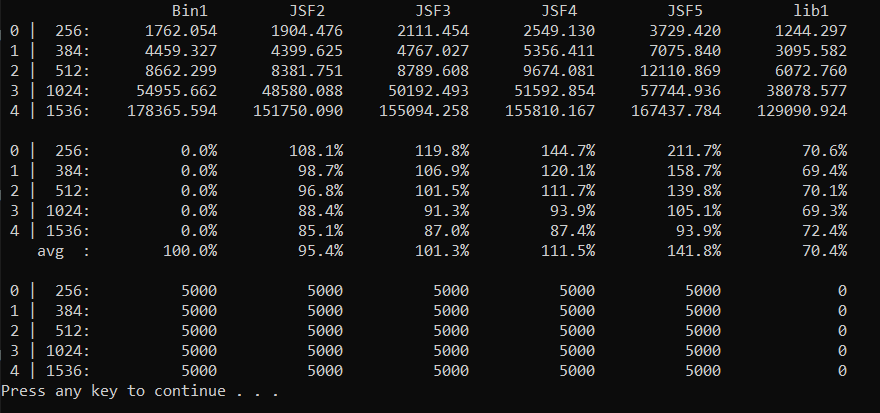
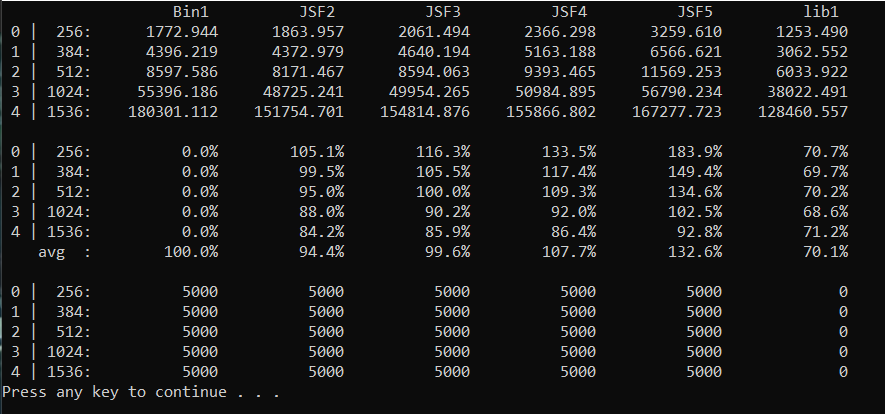
edit powmod_dJSF

diff --git a/BinModSexp/main.cpp b/BinModSexp/main.cpp
@@ -25,35 +25,35 @@ int main()
 	cinstr(P, sP);
 
 	Result res[6];
-	for (int i = 0; i < 100; i++) gl_bigs[i] = mirvar(0);
+	for (int i = 0; i < LEN_GL_BIGS; i++) gl_bigs[i] = mirvar(0);
 
-	//for (int i = 0; i < 5; i++) {
-	//	bigdig(m[i], 2, P);
-	//	nxprime(P, P);
-	//	//cout << "m = " << m[i] << endl;
-	//	//test2Bin(P, Rng);
-	//	//test3Bin_2(P, Rng);
-	//	//testnBin(P, Rng);
-	//	//test_powmoddJSF(P, Rng);
-	//	//compares(m[i], P, Rng, res[i]);
-	//	compare_JSFs(P, Rng, res[i]);
-	//	//compare_GenJSFs(P, Rng);
-	//	//test_HammingWeight_dJSF(P, Rng);
-	//	//cout << endl;
-	//}
-	////cout << setw(19) << "" << "n=1           n=2           n=3           n=4           n=5        lib(n=4)\n";
-	////cout << setw(19) << "" <<   "Bin1          Bin2      Bin2_gblvar         xxx           xxx          lib1\n";
-	////printcompares(res, m);
+	for (int i = 0; i < 5; i++) {
+		bigdig(m[i], 2, P);
+		nxprime(P, P);
+		//cout << "m = " << m[i] << endl;
+		//test2Bin(P, Rng);
+		//test3Bin_2(P, Rng);
+		//testnBin(P, Rng);
+		//test_powmoddJSF(P, Rng);
+		compares(m[i], P, Rng, res[i]);
+		//compare_JSFs(P, Rng, res[i]);
+		//compare_GenJSFs(P, Rng);
+		//test_HammingWeight_dJSF(P, Rng);
+		//cout << endl;
+	}
+	//cout << setw(19) << "" << "n=1           n=2           n=3           n=4           n=5        lib(n=4)\n";
+	cout << setw(19) << "" <<   "Bin1          JSF2          JSF3          JSF4          JSF5          lib1\n";
+	printcompares(res, m);
 	//cout << setw(19) << "" <<   "Bin2           JSF         JSFgl          lib3\n";
 	//printBins(res, m);
 
 	//test_GenJSF(P, Rng);
-	test_correctness_GendJSF(P, Rng);
+	//test_correctness_GendJSF(P, Rng);
 	//bigdig(1024, 2, P);
 	//nxprime(P, P);
 	//test_powmoddJSF(P, Rng);
 
-	for (int i = 0; i < 100; i++) mirkill(gl_bigs[i]);
+	for (int i = 0; i < LEN_GL_BIGS; i++) mirkill(gl_bigs[i]);
 
 	mirkill(P);
 	mirexit();

diff --git a/BinModSexp/new_tests.cpp b/BinModSexp/new_tests.cpp
@@ -45,9 +45,9 @@ void compares(int len, big P, csprng &Rng, Result &res)
 
 			// JSF3
 			startTimer(&timer3);
-			//ShamirDecomposit3(k, g, r, y, P);
+			ShamirDecomposit3(k, g, r, y, P);
 			//powmod3_Bin(r, y, P, R3);			// R3 = y1^r1 * y2^r2 * y3^r3
-			//powmod_dJSF(3, y, r, P, R3);
+			powmod_dJSF(3, y, r, P, R3);
 			//powmodn(3, y, r, P, R3);
 			stopTimer(&timer3);
 			dur3 = getTickCount(&timer3);
@@ -55,9 +55,9 @@ void compares(int len, big P, csprng &Rng, Result &res)
 
 			// JSF4
 			startTimer(&timer4);
-			//ShamirDecomposit_n(4, k, g, r, y, P);
+			ShamirDecomposit_n(4, k, g, r, y, P);
 			//powmodn_Bin(4, r, y, P, R4);		// R4 = y1^r1 * ...* y4^r4
-			//powmod_dJSF(4, y, r, P, R4);
+			powmod_dJSF(4, y, r, P, R4);
 			//powmodn(4, y, r, P, R4);
 			stopTimer(&timer4);
 			dur4 = getTickCount(&timer4);
@@ -65,9 +65,9 @@ void compares(int len, big P, csprng &Rng, Result &res)
 
 			// JSF5
 			startTimer(&timer5);
-			//ShamirDecomposit_n(5, k, g, r, y, P);
+			ShamirDecomposit_n(5, k, g, r, y, P);
 			//powmodn_Bin(5, r, y, P, R5);
-			//powmod_dJSF(5, y, r, P, R5);
+			powmod_dJSF(5, y, r, P, R5);
 			//powmodn(5, y, r, P, R5);
 			stopTimer(&timer5);
 			dur5 = getTickCount(&timer5);

diff --git a/BinModSexp/d-JSF.cpp b/BinModSexp/d-JSF.cpp
@@ -86,12 +86,11 @@ void powmod_dJSF(int d, big *y, big *r, big P, big &R)
 	for (i = 0; i < d; i++) dJSF[i] = new char[1000];
 	DWORD lendJSF;
 	for (i = 0; i < d; i++) tmp *= 3;
-	big *plist = new big[tmp];
-	for (i = 0; i < tmp; i++) plist[i] = mirvar(0);
 	
 	I0 = tmp >> 1;
-	prePowMod_dJSF(d, tmp, y, P, plist);
+	// gl_bigs is used inside GendJSF, hence calling GendJSF before prePowMod_dJSF
 	lendJSF = GendJSF(d, r, dJSF);
+	prePowMod_dJSF(d, tmp, y, P, gl_bigs);
 	R->len = 1; R->w[0] = 1;
 	for (i = lendJSF - 1; i >= 0; i--) {
 		idx = I0;
@@ -99,12 +98,11 @@ void powmod_dJSF(int d, big *y, big *r, big P, big &R)
 			idx -= tmp * dJSF[j][i];
 		}
 		mulmod(R, R, P, R);
-		if (idx != I0) mulmod(R, plist[idx], P, R);
+		if (idx != I0) mulmod(R, gl_bigs[idx], P, R);
 	}
 	
 	for (i = 0; i < d; i++) delete[] dJSF[i];
 	delete[] dJSF;
-	for (i = 0; i < tmp; i++) mirkill(plist[i]);
 }
 
 void test_correctness_GendJSF(big P, csprng &Rng)
@@ -271,4 +269,5 @@ void test_powmoddJSF(big P, csprng &Rng)
 	mirkill(k);mirkill(g);
 	mirkill(Z); mirkill(Z1); mirkill(Z2);
 }
+
 

diff --git a/BinModSexp/Field.h b/BinModSexp/Field.h
@@ -13,8 +13,8 @@ using namespace std;
 
 #define NUM_OF_P	5
 #define LIB			2
-
-extern big gl_bigs[100];
+#define LEN_GL_BIGS 300
+extern big gl_bigs[LEN_GL_BIGS];
 
 struct CONSTANTS_F2m {
 	DWORD m, k3, k2, k1;

diff --git a/BinModSexp/Field.cpp b/BinModSexp/Field.cpp
@@ -1,6 +1,6 @@
 #include "Field.h"
 
-big gl_bigs[100];
+big gl_bigs[LEN_GL_BIGS];
 
 void InitStrongRNG(csprng *Rng)
 {
